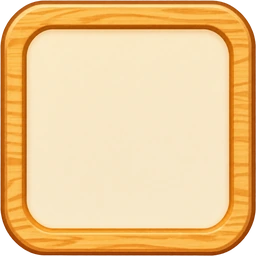
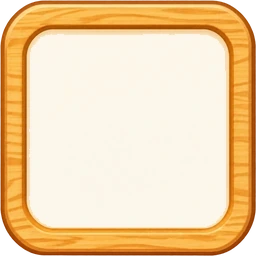
ナチュラル：未クリア枠を白っぽく、星を強く発光
Claude-Session: https://claude.ai/code/session_01C8PtLCLrCZA399Ryqnq6qb

diff --git a/fit.js b/fit.js
@@ -203,7 +203,7 @@
   var b=new URL('img/natural/',document.currentScript.src).href;
   var st=document.createElement('style');
   st.textContent='body[data-vt=natural] .qg{gap:8px}'
-   +'body[data-vt=natural] .qg button{aspect-ratio:1/1;border:0!important;border-radius:0!important;padding:0!important;gap:0!important;flex-direction:column;align-items:center;justify-content:center;color:#6b3f17!important;font-size:clamp(14px,4.6vw,19px)!important;font-weight:900;line-height:1.1;background:url('+b+'stg_frame.webp) center/100% 100% no-repeat!important;box-shadow:none}'
+   +'body[data-vt=natural] .qg button{aspect-ratio:1/1;border:0!important;border-radius:0!important;padding:0!important;gap:0!important;flex-direction:column;align-items:center;justify-content:center;color:#6b3f17!important;font-size:clamp(14px,4.6vw,19px)!important;font-weight:900;line-height:1.1;background:url('+b+'stg_frame.webp?v=2) center/100% 100% no-repeat!important;box-shadow:none}'
    +'body[data-vt=natural] .qg button.ok{background-image:url('+b+'stg_frame_clear.webp?v=3)!important;color:#6b3f17!important}'
    +'body[data-vt=natural] .qg button.lk{opacity:.55;filter:grayscale(.6)}'
    +'body[data-vt=natural] .qg button.cur{box-shadow:0 0 0 3px #f0b429!important;border-radius:16px!important}'
@@ -217,7 +217,7 @@
   var b=new URL('img/retro/',document.currentScript.src).href;
   var st=document.createElement('style');
   st.textContent='body[data-vt=retro] .qg{gap:8px}'
-   +'body[data-vt=retro] .qg button{aspect-ratio:1/1;border:0!important;border-radius:0!important;padding:0!important;gap:0!important;flex-direction:column;align-items:center;justify-content:center;color:#ffe7b0!important;text-shadow:0 1px 2px rgba(0,0,0,.7);font-size:clamp(14px,4.6vw,19px)!important;font-weight:900;line-height:1.1;background:url('+b+'stg_frame.webp) center/100% 100% no-repeat!important;box-shadow:none}'
+   +'body[data-vt=retro] .qg button{aspect-ratio:1/1;border:0!important;border-radius:0!important;padding:0!important;gap:0!important;flex-direction:column;align-items:center;justify-content:center;color:#ffe7b0!important;text-shadow:0 1px 2px rgba(0,0,0,.7);font-size:clamp(14px,4.6vw,19px)!important;font-weight:900;line-height:1.1;background:url('+b+'stg_frame.webp?v=2) center/100% 100% no-repeat!important;box-shadow:none}'
    +'body[data-vt=retro] .qg button.ok{background-image:url('+b+'stg_frame_clear.webp?v=3)!important;color:#fff!important}'
    +'body[data-vt=retro] .qg button.lk{opacity:.55;filter:grayscale(.5)}'
    +'body[data-vt=retro] .qg button.cur{box-shadow:0 0 0 3px #fff3a0,0 0 10px #ffd36b!important;border-radius:16px!important}'
@@ -231,7 +231,7 @@
   var b=new URL('img/neon/',document.currentScript.src).href;
   var st=document.createElement('style');
   st.textContent='body[data-vt=neon] .qg{gap:8px}'
-   +'body[data-vt=neon] .qg button{aspect-ratio:1/1;border:0!important;border-radius:0!important;padding:0!important;gap:0!important;flex-direction:column;align-items:center;justify-content:center;color:#bff8ff!important;text-shadow:0 0 6px #19e6ff;font-size:clamp(14px,4.6vw,19px)!important;font-weight:900;line-height:1.1;background:url('+b+'stg_frame.webp) center/100% 100% no-repeat!important;box-shadow:none}'
+   +'body[data-vt=neon] .qg button{aspect-ratio:1/1;border:0!important;border-radius:0!important;padding:0!important;gap:0!important;flex-direction:column;align-items:center;justify-content:center;color:#bff8ff!important;text-shadow:0 0 6px #19e6ff;font-size:clamp(14px,4.6vw,19px)!important;font-weight:900;line-height:1.1;background:url('+b+'stg_frame.webp?v=2) center/100% 100% no-repeat!important;box-shadow:none}'
    +'body[data-vt=neon] .qg button.ok{background-image:url('+b+'stg_frame_clear.webp?v=3)!important;color:#fff!important}'
    +'body[data-vt=neon] .qg button.lk{opacity:.55;filter:grayscale(.5)}'
    +'body[data-vt=neon] .qg button.cur{box-shadow:0 0 0 3px #fff,0 0 12px #19e6ff!important;border-radius:16px!important}'
@@ -248,7 +248,7 @@
          neon:{c:'#bff8ff',ok:'#fff',sh:'0 0 6px #19e6ff',cur:'0 0 0 3px #fff,0 0 12px #19e6ff',su:'x'}};
   var css='';
   Object.keys(S).forEach(function(k){
-    var s=S[k],p='body[data-vt='+k+'] #mStage .stb',f=r+k+'/stg_frame.webp',fc=r+k+'/stg_frame_clear.webp?v=3';
+    var s=S[k],p='body[data-vt='+k+'] #mStage .stb',f=r+k+'/stg_frame.webp?v=2',fc=r+k+'/stg_frame_clear.webp?v=3';
     css+=p+'{aspect-ratio:1/1;border:0!important;border-radius:0!important;box-shadow:none;padding:6% 5%!important;gap:1px!important;justify-content:center;opacity:1;overflow:visible;isolation:auto;color:'+s.c+'!important;text-shadow:'+s.sh+';background:url('+f+') center/100% 100% no-repeat!important}'
      +p+':has(.sr i.on){background-image:url('+fc+')!important;color:'+s.ok+'!important}'
      +p+'.lock,'+p+'.lk{opacity:.55;filter:grayscale(.5)}'
@@ -266,4 +266,4 @@
   var st=document.createElement('style');st.textContent=css;document.head.appendChild(st);
 })();
 
-(function(){var st=document.createElement('style');st.textContent='body[data-vt=natural] .gcs.on,body:not([data-vt]) .gcs.on,body[data-vt=natural] #mStage .stb .sr i.on{filter:saturate(1.5) drop-shadow(0 0 1px #c25e00) drop-shadow(0 1px 1px rgba(150,70,0,.7))}';document.head.appendChild(st);})();
+(function(){var st=document.createElement('style');st.textContent='body[data-vt=natural] .gcs.on,body:not([data-vt]) .gcs.on,body[data-vt=natural] #mStage .stb .sr i.on{filter:saturate(1.7) drop-shadow(0 0 1px #c25e00) drop-shadow(0 0 3px #ffd000) drop-shadow(0 0 6px rgba(255,190,0,.95))}';document.head.appendChild(st);})();

diff --git a/sw.js b/sw.js
@@ -1,5 +1,5 @@
 // オフライン対応（ページは最新を優先、画像などはキャッシュを優先）
-const V='gc-v310';
+const V='gc-v311';
 const CORE=['./','index.html','coins.js','backup.js','manifest.webmanifest','icons/icon-192.png',
  ...['reversi','shogi','wanko','gomoku','memory','escape','rings','peg','slide','hanoi'].map(g=>g+'/')];
 self.addEventListener('install',e=>{e.waitUntil(caches.open(V).then(c=>c.addAll(CORE)).then(()=>self.skipWaiting()))});
